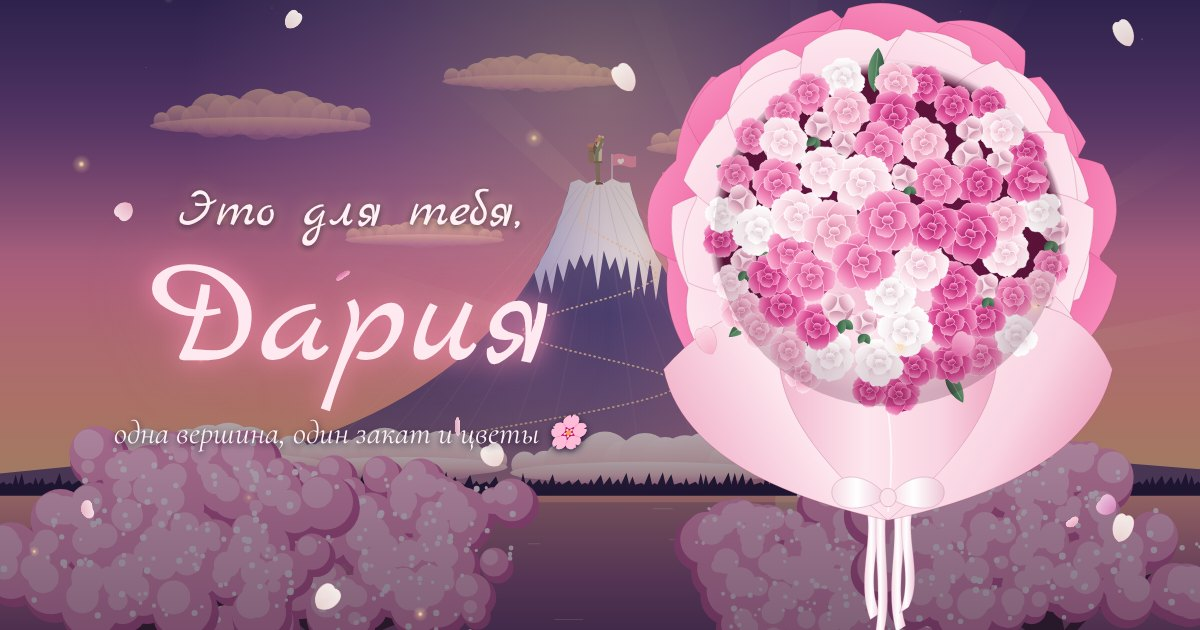
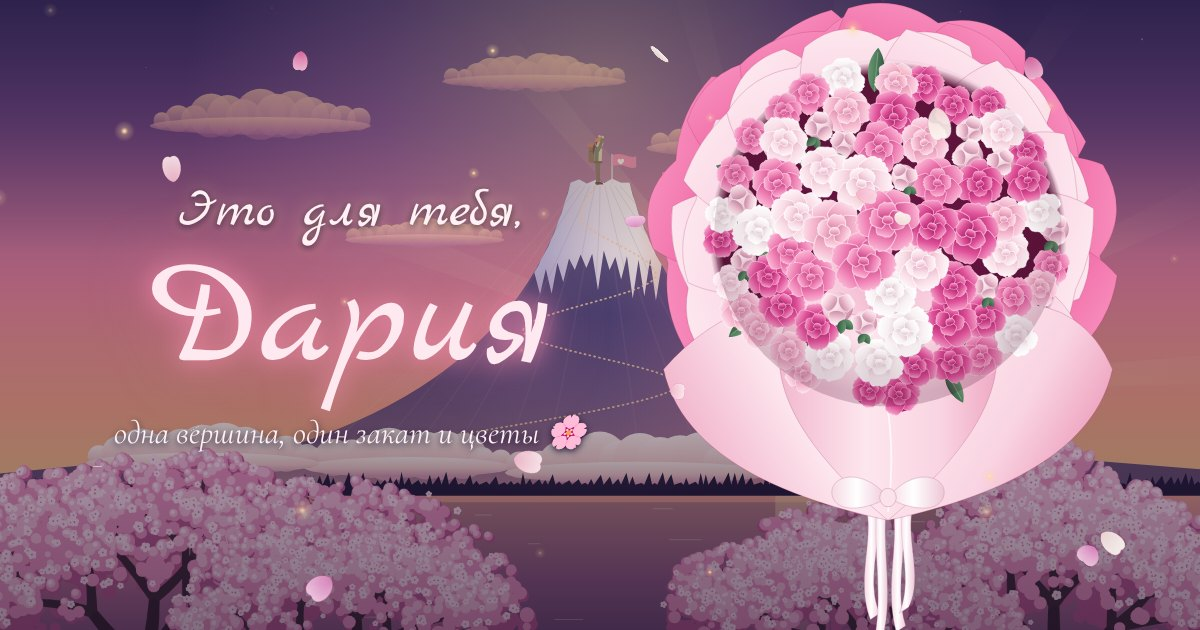
Realistic sakura trees
- Recursive tapered branch skeleton with an umbrella habit, visible
  through the blossom
- Blossom clusters at branch tips in four tones lit from above, drooping
  lower edges, small five-petal flowers on the rims
- Each tree is baked once into a bitmap so the moving camera stays smooth
  (vector fallback if baking fails); bouquet is display:none until used
- Sakura petals drift through the whole story, not just the finale

Claude-Session: https://claude.ai/code/session_01Ci6BZJKcXT5Zd9SAc82KzJ

diff --git a/js/world.js b/js/world.js
@@ -74,34 +74,139 @@
     return g;
   }
 
+  /* ── Sakura ─────────────────────────────────────────────────────────
+   * A recursive, tapering branch skeleton; blossom clusters sit at the branch
+   * tips as many small blooms in four tones (shadow → body → light →
+   * highlight), lit from the upper side, plus tiny five-petal flowers on the
+   * edges. Everything is merged into a few path elements per tree. */
+  function circ(cx, cy, r) {
+    return 'M' + n(cx - r) + ' ' + n(cy) + 'a' + n(r) + ' ' + n(r) + ' 0 1 0 ' + n(2 * r) + ' 0a' + n(r) + ' ' + n(r) + ' 0 1 0 ' + n(-2 * r) + ' 0';
+  }
+
   function cherryTree(parent, x, y, scale, flip, rnd) {
     var g = el('g', { transform: 'translate(' + x + ' ' + y + ') scale(' + (flip ? -scale : scale) + ' ' + scale + ')' }, parent);
-    el('path', {
-      d: 'M-16 0 C-10 -60 -22 -120 -6 -170 C10 -220 50 -250 110 -290 L116 -282 C64 -240 30 -205 18 -170 C40 -190 80 -196 120 -190 L118 -180 C84 -180 48 -170 24 -146 C16 -100 22 -50 18 0 Z',
-      fill: '#3A2431'
-    }, g);
-    el('path', { d: 'M-8 -150 C-40 -190 -70 -205 -110 -215 L-108 -206 C-74 -196 -44 -180 -14 -140 Z', fill: '#3A2431' }, g);
-    var centres = [[110, -290], [120, -190], [-110, -212], [40, -250], [-40, -200], [70, -320], [0, -280], [150, -240], [-70, -260], [20, -200], [90, -230], [-20, -320], [160, -300]];
-    // blossom clouds as three tonal layers (shadow, body, light) + tiny flower speckles:
-    // a handful of path elements instead of hundreds of circles
-    function circ(cx, cy, r) {
-      return 'M' + n(cx - r) + ' ' + n(cy) + 'a' + n(r) + ' ' + n(r) + ' 0 1 0 ' + n(2 * r) + ' 0a' + n(r) + ' ' + n(r) + ' 0 1 0 ' + n(-2 * r) + ' 0';
+    var wood = ['', '', '', '', ''];     // branch paths by thickness level
+    var tips = [];
+
+    // tapered, slightly curved limb drawn as a filled quad strip
+    function limb(x0, y0, x1, y1, w0, w1, bend) {
+      var dx = x1 - x0, dy = y1 - y0, L = Math.hypot(dx, dy) || 1;
+      var nx = -dy / L, ny = dx / L;
+      var mx = (x0 + x1) / 2 + nx * bend, my = (y0 + y1) / 2 + ny * bend;
+      return 'M' + n(x0 + nx * w0 / 2) + ' ' + n(y0 + ny * w0 / 2) +
+        ' Q' + n(mx + nx * (w0 + w1) / 4) + ' ' + n(my + ny * (w0 + w1) / 4) + ' ' + n(x1 + nx * w1 / 2) + ' ' + n(y1 + ny * w1 / 2) +
+        ' L' + n(x1 - nx * w1 / 2) + ' ' + n(y1 - ny * w1 / 2) +
+        ' Q' + n(mx - nx * (w0 + w1) / 4) + ' ' + n(my - ny * (w0 + w1) / 4) + ' ' + n(x0 - nx * w0 / 2) + ' ' + n(y0 - ny * w0 / 2) + 'Z';
     }
-    var dark = '', mid = '', lite = '', dots = '';
-    centres.forEach(function (c) {
-      for (var k = 0; k < 7; k++) {
-        var x = c[0] + (rnd() - 0.5) * 80, y = c[1] + (rnd() - 0.5) * 56, r = 14 + rnd() * 22;
-        dark += circ(x + 4, y + 6, r);
-        mid += circ(x, y, r * 0.9);
-        lite += circ(x - r * 0.25, y - r * 0.3, r * 0.5);
+    function grow(x0, y0, ang, len, w, depth) {
+      var a = ang * Math.PI / 180;
+      var x1 = x0 + Math.cos(a) * len, y1 = y0 + Math.sin(a) * len;
+      var w1 = w * 0.66;
+      wood[Math.min(depth, 4)] += limb(x0, y0, x1, y1, w, w1, (rnd() - 0.5) * len * 0.25);
+      if (depth >= 2) tips.push({ x: x1, y: y1, s: depth >= 3 ? 1 : 1.25 });
+      if (depth >= 4) return;
+      var kids = depth === 0 ? 3 : 2 + (rnd() < 0.45 ? 1 : 0);
+      for (var k = 0; k < kids; k++) {
+        // umbrella habit: limbs spread sideways, then arch up and out
+        var spread = depth === 0 ? (k - 1) * 42 : (k / Math.max(1, kids - 1) - 0.5) * 80;
+        var na = ang + spread + (rnd() - 0.5) * 22;
+        na = Math.max(-170, Math.min(-10, na));
+        grow(x1, y1, na, len * (0.68 + rnd() * 0.14), w1, depth + 1);
       }
-      for (k = 0; k < 9; k++) dots += circ(c[0] + (rnd() - 0.5) * 100, c[1] + (rnd() - 0.5) * 70, 1.6 + rnd() * 2.2);
+    }
+    grow(0, 0, -90 + (rnd() - 0.5) * 8, 120, 30, 0);
+
+    // blossom clusters
+    var shade = '', body = '', lite = '', glow = '', flowers = '', eyes = '';
+    tips.forEach(function (t) {
+      var cr = (34 + rnd() * 22) * t.s;
+      var count = Math.round(16 + cr * 0.32);
+      for (var i = 0; i < count; i++) {
+        var a = rnd() * Math.PI * 2, d = Math.sqrt(rnd());
+        var px = t.x + Math.cos(a) * d * cr * 1.25;
+        var py = t.y + Math.sin(a) * d * cr * 0.8 + d * cr * 0.18; // droop
+        var r = 5 + rnd() * 9 * (1 - d * 0.4);
+        // light from the upper side: tone by position inside the cluster
+        var lit = -Math.sin(a) * d * 0.8 - Math.cos(a) * d * 0.3 + (rnd() - 0.5) * 0.6;
+        shade += circ(px + 2, py + 3, r);
+        if (lit > -0.35) body += circ(px, py, r * 0.92);
+        if (lit > 0.15) lite += circ(px - r * 0.2, py - r * 0.25, r * 0.6);
+        if (lit > 0.55) glow += circ(px - r * 0.3, py - r * 0.35, r * 0.3);
+      }
+      // individual five-petal flowers on the rim of the cluster
+      for (i = 0; i < 4; i++) {
+        var fa = rnd() * Math.PI * 2, fd = 0.75 + rnd() * 0.35;
+        var fx = t.x + Math.cos(fa) * fd * cr * 1.2, fy = t.y + Math.sin(fa) * fd * cr * 0.8 + cr * 0.12;
+        var fs = 3.2 + rnd() * 2.6, rot = rnd() * 72;
+        for (var p = 0; p < 5; p++) {
+          var pa = (rot + p * 72) * Math.PI / 180;
+          flowers += circ(fx + Math.cos(pa) * fs * 0.62, fy + Math.sin(pa) * fs * 0.62, fs * 0.5);
+        }
+        eyes += circ(fx, fy, fs * 0.22);
+      }
     });
-    el('path', { d: dark, fill: '#C8609A' }, g);
-    el('path', { d: mid, fill: '#F29CC4' }, g);
-    el('path', { d: lite, fill: '#FFC9E0', opacity: 0.9 }, g);
-    el('path', { d: dots, fill: '#FFF2F8' }, g);
+
+    var woodCol = ['#2E1B27', '#33202C', '#3A2532', '#432B39', '#4C3140'];
+    var layers = [[shade, '#B9578C', 1]];
+    for (var lv = 0; lv < wood.length; lv++) if (wood[lv]) layers.push([wood[lv], woodCol[lv], 1]);
+    layers.push([body, '#EC93BE', 1], [lite, '#F8BFD8', 1], [glow, '#FFE3EF', 1], [flowers, '#FFE4F0', 0.92], [eyes, '#E27AA6', 1]);
+    layers.forEach(function (L) { el('path', { d: L[0], fill: L[1], opacity: L[2] }, g); });
+    bakeTree(g, layers, tips, scale);
     return g;
+  }
+
+  /* The trees never change, but the camera moves every frame: re-painting
+   * thousands of tiny blossom shapes is expensive, so each tree is drawn once
+   * into a bitmap (sharp enough for the widest shot on this screen) and the
+   * vector version is swapped for an <image>. If anything fails, the vector
+   * version simply stays. */
+  // bake one tree at a time, shortly after start-up
+  var bakeQueue = [];
+  function runBakeQueue() {
+    var job = bakeQueue.shift();
+    if (job) { job(); setTimeout(runBakeQueue, 60); }
+  }
+
+  function bakeTree(g, layers, tips, scale) {
+    var minX = -40, maxX = 40, minY = -40, maxY = 10;
+    tips.forEach(function (t) {
+      minX = Math.min(minX, t.x - 110); maxX = Math.max(maxX, t.x + 110);
+      minY = Math.min(minY, t.y - 90); maxY = Math.max(maxY, t.y + 110);
+    });
+    var w = maxX - minX, h = maxY - minY;
+    var dpr = Math.min(window.devicePixelRatio || 1, 3);
+    var ppu = Math.min(2.5, Math.min(window.innerWidth, window.innerHeight) / 880 * dpr * scale * 1.2);
+    ppu = Math.max(0.8, ppu);
+    var markup = '<svg xmlns="' + SVGNS + '" viewBox="' + n(minX) + ' ' + n(minY) + ' ' + n(w) + ' ' + n(h) + '" width="' + Math.round(w * ppu) + '" height="' + Math.round(h * ppu) + '">' +
+      layers.map(function (L) { return '<path d="' + L[0] + '" fill="' + L[1] + '" opacity="' + L[2] + '"/>'; }).join('') + '</svg>';
+    bakeQueue.push(function () {
+      try {
+        var url = URL.createObjectURL(new Blob([markup], { type: 'image/svg+xml' }));
+        var img = new Image();
+        img.onload = function () {
+          try {
+            var c = document.createElement('canvas');
+            c.width = Math.round(w * ppu); c.height = Math.round(h * ppu);
+            c.getContext('2d').drawImage(img, 0, 0, c.width, c.height);
+            URL.revokeObjectURL(url);
+            c.toBlob(function (blob) {
+              if (!blob) return;
+              var bmp = URL.createObjectURL(blob);
+              var im = el('image', { x: n(minX), y: n(minY), width: n(w), height: n(h), preserveAspectRatio: 'none' });
+              im.setAttribute('href', bmp);
+              im.setAttributeNS('http://www.w3.org/1999/xlink', 'xlink:href', bmp);
+              var probe = new Image();
+              probe.onload = function () {
+                while (g.firstChild) g.removeChild(g.firstChild);
+                g.appendChild(im);
+              };
+              probe.src = bmp;
+            }, 'image/png');
+          } catch (e) { /* keep vectors */ }
+        };
+        img.src = url;
+      } catch (e) { /* keep vectors */ }
+    });
   }
 
   /* ── The hiker (side view, facing +x) ─────────────────────────────── */
@@ -337,10 +442,10 @@
       reedD += 'M' + n(rx) + ' 1300 Q' + n(rx + lean * 0.4) + ' ' + n(1300 - rh * 0.6) + ' ' + n(rx + lean) + ' ' + n(1300 - rh) + ' ';
     }
     el('path', { d: reedD, fill: 'none', stroke: '#2C1E35', 'stroke-width': 3, 'stroke-linecap': 'round' }, cam);
-    cherryTree(cam, 20, 1310, 1.6, false, rnd);
-    cherryTree(cam, 990, 1320, 1.5, true, rnd);
-    cherryTree(cam, -330, 1300, 1.7, false, rnd);
-    cherryTree(cam, 1330, 1305, 1.7, true, rnd);
+    cherryTree(cam, -330, 1300, 1.5, false, rnd);
+    cherryTree(cam, 1330, 1305, 1.5, true, rnd);
+    cherryTree(cam, 40, 1310, 1.35, false, rnd);
+    cherryTree(cam, 960, 1320, 1.3, true, rnd);
 
     /* ── state ─────────────────────────────────────── */
     var W = 1, H = 1;
@@ -404,6 +509,7 @@
 
     resize();
     window.addEventListener('resize', resize);
+    setTimeout(runBakeQueue, 50);
     gsap.ticker.add(update);
     update();
     svg.style.visibility = '';

diff --git a/index.html b/index.html
@@ -25,7 +25,7 @@
   <link rel="preconnect" href="https://fonts.googleapis.com">
   <link rel="preconnect" href="https://fonts.gstatic.com" crossorigin>
   <link rel="stylesheet" href="https://fonts.googleapis.com/css2?family=Cormorant+Garamond:ital,wght@0,400;0,500;1,400&family=Marck+Script&display=swap">
-  <link rel="stylesheet" href="css/style.css?v=7">
+  <link rel="stylesheet" href="css/style.css?v=8">
   <script>
     document.documentElement.classList.add('js');
     // safety net: if the scripts never start, show the static version
@@ -67,11 +67,11 @@
     <button id="start" class="start" type="button"><span class="start-ico" aria-hidden="true">🌸</span><span class="start-label">Начать</span></button>
   </main>
 
-  <script src="js/vendor/gsap.min.js?v=7"></script>
-  <script src="js/world.js?v=7"></script>
-  <script src="js/peony.js?v=7"></script>
-  <script src="js/particles.js?v=7"></script>
-  <script src="js/music.js?v=7"></script>
-  <script src="js/main.js?v=7"></script>
+  <script src="js/vendor/gsap.min.js?v=8"></script>
+  <script src="js/world.js?v=8"></script>
+  <script src="js/peony.js?v=8"></script>
+  <script src="js/particles.js?v=8"></script>
+  <script src="js/music.js?v=8"></script>
+  <script src="js/main.js?v=8"></script>
 </body>
 </html>

diff --git a/js/main.js b/js/main.js
@@ -259,6 +259,7 @@
     tl.to(light, { opacity: 1, duration: 2.6, ease: 'power1.inOut' }, at + 0.8);
     tl.add(function () {
       flowersShown = true;
+      wrap.style.display = '';
       wrap.classList.remove('swaying');
       bouquetTl.eventCallback('onComplete', onBloomed);
       bouquetTl.restart();
@@ -293,7 +294,6 @@
 
   function resetStory() {
     flowersShown = false;
-    particles.setAmbient(false);
     finalTl.pause(0);
     bouquetTl.pause(0);
     renderOnce = true;
@@ -304,6 +304,7 @@
     gsap.set(congrats, { autoAlpha: 0, y: 0 });
     gsap.set(finale, { autoAlpha: 0 });
     gsap.set(bouquet.svg, { visibility: 'hidden' });
+    wrap.style.display = 'none'; // keep the 1 300-node bouquet out of rendering until it is needed
   }
 
   function play() {
@@ -341,6 +342,7 @@
 
   // story + music start together
   function begin() {
+    particles.setAmbient(true); // sakura petals drift through the whole story
     gsap.to(veil, { autoAlpha: 0, duration: reduced ? 0.8 : 1.8, ease: 'power1.inOut' });
     play();
   }
@@ -368,6 +370,7 @@
     gsap.set([dim, light], { opacity: 1 });
     finalTl.progress(1);
     nameShineEl.classList.add('on');
+    wrap.style.display = '';
     bouquetTl.progress(1);
     bouquet.renderAll();
     flowersShown = true;
